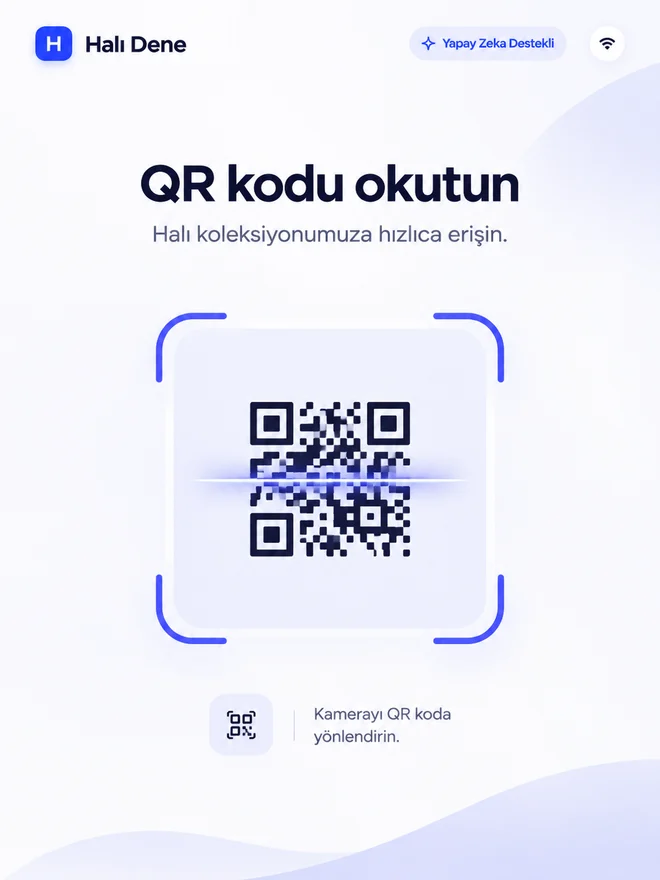
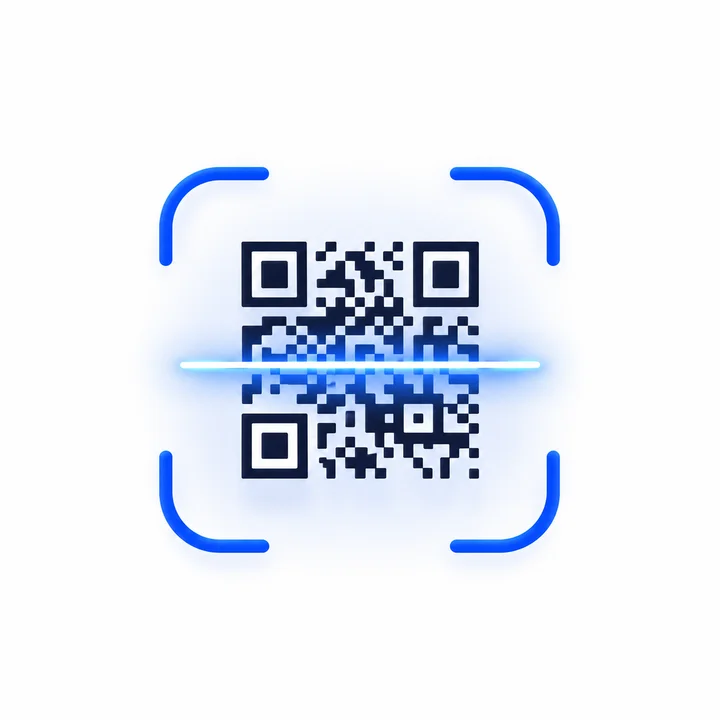
Refresh the how-it-works visuals and style the demo form

diff --git a/components/landing/web-landing.css b/components/landing/web-landing.css
@@ -121,9 +121,7 @@
 .hd-interest-field input::placeholder { color: #697990; }
 .hd-interest-field:focus-within { border-color: var(--hd-blue); box-shadow: 0 0 0 3px rgb(36 88 245 / 13%); }
 .hd-interest-field input:focus-visible { outline: none; }
-.hd-interest .hd-contact-form .hd-contact-whatsapp { justify-self: center; color: var(--hd-blue-dark); font-size: .875rem; font-weight: 680; }
-.hd-contact-whatsapp:hover { text-decoration: underline; }
-.hd-form-error { flex-basis: 100%; }
+.hd-interest .hd-form-error { flex-basis: 100%; }
 .hd-interest .hd-button { flex-shrink: 0; min-height: 48px; padding-inline: clamp(16px, 1.7vw, 24px); border-radius: 8px; font-size: .875rem; font-weight: 800; box-shadow: 0 2px 5px rgb(15 23 42 / 9%); }
 
 .hd-hero-benefits {
@@ -150,8 +148,8 @@
 .hd-section-heading > p { max-width: 640px; margin: 10px auto 0; color: var(--hd-muted); font-size: 1.06rem; }
 .hd-step-grid { display: grid; grid-template-columns: repeat(4, minmax(0, 1fr)); gap: clamp(12px, 1.65vw, 22px); margin: 29px 0 0; padding: 0; list-style: none; }
 .hd-step-grid li { min-width: 0; padding: 11px; border: 1px solid var(--hd-line); border-radius: 15px; background: #fff; box-shadow: var(--hd-card-shadow); }
-.hd-step-visual { width: 100%; aspect-ratio: 5 / 6; overflow: hidden; border: 1px solid var(--hd-line); border-radius: 9px; background: var(--hd-surface); }
-.hd-step-visual img { width: 100%; height: 100%; object-fit: cover; object-position: center bottom; }
+.hd-step-visual { width: 100%; aspect-ratio: 1; overflow: hidden; border-radius: 10px; background: #fff; }
+.hd-step-visual img { width: 100%; height: 100%; object-fit: contain; }
 .hd-step-copy { display: flex; gap: 8px; align-items: flex-start; padding: 12px 2px 5px; }
 .hd-step-number { display: grid; width: 25px; height: 25px; flex: 0 0 25px; place-items: center; border-radius: 50%; color: #fff; background: var(--hd-blue); font-size: .78rem; font-weight: 730; }
 .hd-step-copy h3 { margin-top: 3px; font-size: .96rem; letter-spacing: -.015em; line-height: 1.16; }
@@ -204,23 +202,79 @@
 .hd-footer p { margin-top: 7px; color: var(--hd-muted); font-size: .875rem; }
 .hd-copyright { margin-top: 21px; padding-top: 14px; border-top: 1px solid var(--hd-line); color: var(--hd-muted); font-size: .8125rem; }
 
-.hd-demo-dialog { width: min(500px, calc(100% - 28px)); max-height: calc(100dvh - 28px); overflow: auto; padding: 23px; border: 1px solid var(--hd-line); border-radius: 17px; color: var(--hd-ink); background: #fff; box-shadow: 0 18px 72px rgb(15 23 42 / 24%); }
-.hd-demo-dialog::backdrop { background: rgb(15 23 42 / 49%); }
-.hd-dialog-heading { display: flex; align-items: flex-start; justify-content: space-between; gap: 12px; }
-.hd-dialog-heading h2, .hd-contact-panel h1 { font-size: clamp(1.6rem, 4vw, 2rem); line-height: 1.12; letter-spacing: -.04em; }
-.hd-dialog-heading p, .hd-contact-panel > p { margin-top: 8px; color: var(--hd-muted); }
-.hd-landing .hd-dialog-close { display: grid; width: 39px; height: 39px; flex: 0 0 39px; place-items: center; padding: 0; border: 1px solid var(--hd-line); border-radius: 8px; color: var(--hd-ink); background: #fff; font-size: 1.3rem; }
-.hd-dialog-close:hover { background: var(--hd-surface); }
-.hd-contact-form { display: grid; gap: 13px; margin-top: 18px; }
-.hd-contact-form label { display: grid; gap: 5px; min-width: 0; color: var(--hd-ink); font-size: .88rem; font-weight: 700; }
-.hd-contact-fields { display: grid; grid-template-columns: 1fr 1fr; gap: 10px; }
-.hd-contact-form .hd-input { width: 100%; min-height: 44px; padding: 8px 10px; border: 1px solid #dbe4f0; border-radius: 8px; color: var(--hd-ink); background: #fff; font-size: 1rem; font-weight: 400; }
-.hd-contact-form .hd-input:focus-visible { outline-offset: 1px; }
+.hd-demo-dialog, .hd-contact-panel {
+  padding: clamp(21px, 5vw, 34px);
+  border: 1px solid #dce6f7;
+  border-radius: 24px;
+  color: var(--hd-ink);
+  background: radial-gradient(ellipse at 0 0, #f1f6ff, transparent 62%), #fff;
+}
+.hd-demo-dialog {
+  width: min(520px, calc(100% - 28px));
+  max-height: calc(100dvh - 28px);
+  overflow: auto;
+  box-shadow: 0 22px 78px rgb(15 23 42 / 24%);
+}
+.hd-demo-dialog::backdrop { background: rgb(15 23 42 / 48%); backdrop-filter: blur(3px); }
+.hd-demo-intro { display: grid; justify-items: start; gap: 9px; }
+.hd-demo-dialog .hd-demo-intro { padding-right: 34px; }
+.hd-demo-intro h1, .hd-demo-intro h2 { font-size: clamp(1.65rem, 4vw, 2.15rem); line-height: 1.12; letter-spacing: -.045em; }
+.hd-demo-intro p { color: var(--hd-muted); font-size: .94rem; }
+.hd-demo-icon {
+  display: grid;
+  width: 47px;
+  height: 47px;
+  place-items: center;
+  margin-bottom: 4px;
+  border: 1px solid #d9e4ff;
+  border-radius: 14px;
+  color: var(--hd-blue);
+  background: #e7efff;
+}
+.hd-landing .hd-dialog-close {
+  position: absolute;
+  top: 17px;
+  right: 17px;
+  display: grid;
+  width: 36px;
+  height: 36px;
+  place-items: center;
+  padding: 0;
+  border: 1px solid var(--hd-line);
+  border-radius: 50%;
+  color: var(--hd-muted);
+  background: #fff;
+  font-size: 1.25rem;
+  line-height: 1;
+}
+.hd-dialog-close:hover { background: var(--hd-surface); color: var(--hd-ink); }
+.hd-contact-form { display: grid; gap: 15px; margin-top: 23px; }
+.hd-contact-form label { display: grid; gap: 6px; min-width: 0; color: var(--hd-ink); font-size: .875rem; font-weight: 680; }
+.hd-contact-fields { display: grid; grid-template-columns: minmax(0, 1fr) minmax(0, 1fr); gap: 12px; }
+.hd-contact-form .hd-input {
+  width: 100%;
+  min-height: 47px;
+  padding: 10px 12px;
+  border: 1px solid #dbe4f0;
+  border-radius: 10px;
+  color: var(--hd-ink);
+  background: #fff;
+  font-size: 1rem;
+  font-weight: 400;
+}
+.hd-contact-form .hd-input::placeholder { color: #64748b; opacity: 1; }
+.hd-contact-form .hd-input:focus { border-color: var(--hd-blue); box-shadow: 0 0 0 3px rgb(36 88 245 / 12%); outline: none; }
+.hd-demo-actions { display: grid; grid-template-columns: minmax(0, 1fr) auto; gap: 10px; margin-top: 5px; }
+.hd-demo-actions .hd-button { min-height: 48px; gap: 8px; border-radius: 10px; }
+.hd-demo-actions .hd-button-primary { box-shadow: 0 5px 13px rgb(36 88 245 / 17%); }
+.hd-landing .hd-contact-whatsapp { color: #14603e; border-color: #cfe8da; background: #f0faf4; white-space: nowrap; }
+.hd-landing .hd-contact-whatsapp:hover { background: #e0f4e8; }
 .hd-form-error { color: #ae2424; font-size: .875rem; }
-.hd-contact-success { margin-top: 19px; padding: 15px; border-radius: 8px; background: var(--hd-tint); }
+.hd-contact-form .hd-form-error { padding: 9px 11px; border-radius: 8px; background: #fff2f2; }
+.hd-contact-success { margin-top: 21px; padding: 16px; border: 1px solid #d9e4ff; border-radius: 12px; background: var(--hd-tint); }
 .hd-contact-success p { color: var(--hd-muted); }
-.hd-contact-page { padding: 27px clamp(17px, 5vw, 65px); background: var(--hd-surface); }
-.hd-contact-panel { width: min(100%, 560px); margin: 25px auto; padding: clamp(17px, 4vw, 34px); border: 1px solid var(--hd-line); border-radius: 17px; background: #fff; box-shadow: var(--hd-card-shadow); }
+.hd-contact-page { padding-block: 23px 42px; background: radial-gradient(ellipse at top, #e8f0ff, #f8faff 50%, #fff); }
+.hd-contact-panel { width: min(540px, calc(100% - 32px)); margin: clamp(29px, 6vh, 65px) auto 0; box-shadow: 0 18px 56px rgb(34 64 118 / 9%); }
 
 @media (max-width: 900px) {
   .hd-hero { gap: 24px; }
@@ -264,6 +318,9 @@
   .hd-step-grid li { padding: 8px; }
   .hd-step-copy { gap: 6px; }
   .hd-step-number { width: 21px; height: 21px; flex-basis: 21px; }
+}
+@media (max-width: 370px) {
+  .hd-demo-actions { grid-template-columns: minmax(0, 1fr); }
 }
 @media (prefers-reduced-motion: reduce) {
   .hd-landing { scroll-behavior: auto; }

diff --git a/components/landing/ContactForm.web.tsx b/components/landing/ContactForm.web.tsx
@@ -17,6 +17,22 @@ interface ContactFormProps {
   initialEmail?: string;
 }
 
+export function DemoFormHeading({ id, as: Heading = 'h2' }: { id: string; as?: 'h1' | 'h2' }) {
+  return (
+    <header className="hd-demo-intro">
+      <span className="hd-demo-icon" aria-hidden="true">
+        <svg width="23" height="23" viewBox="0 0 24 24" fill="none" stroke="currentColor"
+          strokeWidth="1.7" strokeLinecap="round" strokeLinejoin="round">
+          <rect x="3" y="5" width="18" height="16" rx="3" />
+          <path d="M16 3v4M8 3v4M3 10h18m-12 5 2 2 4-4" />
+        </svg>
+      </span>
+      <Heading id={id}>Demo Talep Et</Heading>
+      <p>Mağazanız için bir demo görüşmesi planlayalım.</p>
+    </header>
+  );
+}
+
 export function demoEmailError(field: HTMLInputElement) {
   if (!field.value.trim()) return 'Lütfen e-posta adresinizi girin.';
   if (field.validity.typeMismatch) return 'Lütfen geçerli bir e-posta adresi girin.';
@@ -94,23 +110,34 @@ export default function ContactForm({ initialEmail = '' }: ContactFormProps) {
       <input type="text" name="_honey" hidden tabIndex={-1} autoComplete="off" />
       <div className="hd-contact-fields">
         <label htmlFor={`${fieldId}-name`}>Ad
-          <input className="hd-input" id={`${fieldId}-name`} name="name" autoComplete="given-name" maxLength={80} required />
+          <input className="hd-input" id={`${fieldId}-name`} name="name" autoComplete="given-name" placeholder="Adınız" maxLength={80} required />
         </label>
         <label htmlFor={`${fieldId}-surname`}>Soyad
-          <input className="hd-input" id={`${fieldId}-surname`} name="surname" autoComplete="family-name" maxLength={80} required />
+          <input className="hd-input" id={`${fieldId}-surname`} name="surname" autoComplete="family-name" placeholder="Soyadınız" maxLength={80} required />
         </label>
       </div>
       <label htmlFor={`${fieldId}-email`}>E-posta
-        <input className="hd-input" id={`${fieldId}-email`} name="email" type="email" autoComplete="email" defaultValue={initialEmail} maxLength={254} required />
+        <input className="hd-input" id={`${fieldId}-email`} name="email" type="email" autoComplete="email" placeholder="ornek@magaza.com" defaultValue={initialEmail} maxLength={254} required />
       </label>
       <label htmlFor={`${fieldId}-phone`}>Telefon
-        <input className="hd-input" id={`${fieldId}-phone`} name="phone" type="tel" autoComplete="tel" maxLength={35} required />
+        <input className="hd-input" id={`${fieldId}-phone`} name="phone" type="tel" autoComplete="tel" placeholder="05XX XXX XX XX" maxLength={35} required />
       </label>
       {error && <p className="hd-form-error" role="alert">{error}</p>}
-      <button type="submit" className="hd-button hd-button-primary" disabled={status === 'sending'}>
-        {status === 'sending' ? 'Gönderiliyor…' : 'Talebi Gönder'}
-      </button>
-      <a className="hd-contact-whatsapp" href={DEMO_WHATSAPP_URL}>WhatsApp’tan demo talep et</a>
+      <div className="hd-demo-actions">
+        <button type="submit" className="hd-button hd-button-primary" disabled={status === 'sending'}>
+          {status === 'sending' ? 'Gönderiliyor…' : 'Talebi Gönder'}
+          <svg aria-hidden="true" width="17" height="17" viewBox="0 0 24 24" fill="none"
+            stroke="currentColor" strokeWidth="1.8" strokeLinecap="round" strokeLinejoin="round">
+            <path d="M4 12h15m-6-6 6 6-6 6" />
+          </svg>
+        </button>
+        <a className="hd-button hd-contact-whatsapp" href={DEMO_WHATSAPP_URL}>
+          <svg aria-hidden="true" width="18" height="18" viewBox="0 0 24 24" fill="currentColor">
+            <path d="M17.472 14.382c-.297-.149-1.758-.867-2.03-.967-.273-.099-.471-.148-.67.15-.197.297-.767.966-.94 1.164-.173.199-.347.223-.644.075-.297-.15-1.255-.463-2.39-1.475-.883-.788-1.48-1.761-1.653-2.059-.173-.297-.018-.458.13-.606.134-.133.298-.347.446-.52.149-.174.198-.298.298-.497.099-.198.05-.371-.025-.52-.075-.149-.669-1.612-.916-2.207-.242-.579-.487-.5-.669-.51-.173-.008-.371-.01-.57-.01-.198 0-.52.074-.792.372-.272.297-1.04 1.016-1.04 2.479 0 1.462 1.065 2.875 1.213 3.074.149.198 2.096 3.2 5.077 4.487.709.306 1.262.489 1.694.625.712.227 1.36.195 1.871.118.571-.085 1.758-.719 2.006-1.413.248-.694.248-1.289.173-1.413-.074-.124-.272-.198-.57-.347m-5.421 7.403h-.004a9.87 9.87 0 01-5.031-1.378l-.361-.214-3.741.982.998-3.648-.235-.374a9.86 9.86 0 01-1.51-5.26c.001-5.45 4.436-9.884 9.888-9.884 2.64 0 5.122 1.03 6.988 2.898a9.825 9.825 0 012.893 6.994c-.003 5.45-4.437 9.884-9.885 9.884m8.413-18.297A11.815 11.815 0 0012.05 0C5.495 0 .16 5.335.157 11.892c0 2.096.547 4.142 1.588 5.945L.057 24l6.305-1.654a11.882 11.882 0 005.683 1.448h.005c6.554 0 11.89-5.335 11.893-11.893a11.821 11.821 0 00-3.48-8.413Z" />
+          </svg>
+          WhatsApp
+        </a>
+      </div>
     </form>
   );
 }

diff --git a/screens/LandingScreen.web.tsx b/screens/LandingScreen.web.tsx
@@ -1,5 +1,5 @@
 import React, { useEffect, useId, useRef, useState, type CSSProperties, type FormEvent, type MouseEvent, type PointerEvent } from 'react';
-import ContactForm, { DEMO_WHATSAPP_URL, demoEmailError } from '../components/landing/ContactForm.web';
+import ContactForm, { DEMO_WHATSAPP_URL, DemoFormHeading, demoEmailError } from '../components/landing/ContactForm.web';
 import CATALOG from '../data/catalog-stats.json';
 
 const CARPET_COUNT = `${Math.floor(CATALOG.totalCarpets / 100) * 100}+`;
@@ -230,13 +230,13 @@ function HowItWorks() {
       title: 'QR kodu okutun',
       text: 'Müşteriniz, mağazadaki QR kodu telefonuyla okutarak halı deneme akışını başlatır.',
       image: 'qr',
-      alt: 'Halı denemeyi başlatan QR kod ekranı',
+      alt: 'Mağazada QR kod okutma adımının temsili görseli',
     },
     {
       title: 'Oda fotoğrafını yükleyin',
       text: 'Halının deneneceği odanın fotoğrafını ekleyin.',
       image: 'room-upload',
-      alt: 'Oda fotoğrafı yüklemek için dosya seçme ekranı',
+      alt: 'Yükleme simgesiyle halısız bir oda fotoğrafı',
     },
     {
       title: 'Halıyı seçin',
@@ -263,7 +263,7 @@ function HowItWorks() {
           {steps.map(({ title, text, image, alt }, index) => (
             <li key={title}>
               <div className="hd-step-visual">
-                <img src={`/landing/steps/${image}.webp`} alt={alt} width={660} height={880} loading="lazy" decoding="async" />
+                <img src={`/landing/steps/${image}.webp`} alt={alt} width={720} height={720} loading="lazy" decoding="async" />
               </div>
               <div className="hd-step-copy">
                 <span className="hd-step-number" aria-hidden="true">{index + 1}</span>
@@ -415,10 +415,8 @@ export default function LandingScreen() {
       </footer>
 
       <dialog className="hd-demo-dialog" ref={dialog} aria-labelledby="hd-demo-title" onClose={() => setRequestEmail(null)}>
-        <div className="hd-dialog-heading">
-          <div><h2 id="hd-demo-title">Demo Talep Et</h2><p>Bilgilerinizi paylaşın, mağazanız için bir görüşme planlayalım.</p></div>
-          <button className="hd-dialog-close" type="button" aria-label="Formu kapat" onClick={() => dialog.current?.close()}>×</button>
-        </div>
+        <DemoFormHeading id="hd-demo-title" />
+        <button className="hd-dialog-close" type="button" aria-label="Formu kapat" onClick={() => dialog.current?.close()}>×</button>
         {requestEmail !== null && <ContactForm initialEmail={requestEmail} />}
       </dialog>
     </div>

diff --git a/screens/ContactScreen.web.tsx b/screens/ContactScreen.web.tsx
@@ -1,5 +1,5 @@
 import React from 'react';
-import ContactForm from '../components/landing/ContactForm.web';
+import ContactForm, { DemoFormHeading } from '../components/landing/ContactForm.web';
 
 export const contactMetadata = {
   title: 'İletişim | Halı Dene',
@@ -9,12 +9,13 @@ export const contactMetadata = {
 export default function ContactScreen() {
   return (
     <main className="hd-landing hd-contact-page">
-      <a className="hd-wordmark" href="/" aria-label="Halı Dene ana sayfa">
-        <span className="hd-brand-mark" aria-hidden="true">H</span>Halı Dene
-      </a>
+      <header className="hd-container">
+        <a className="hd-wordmark" href="/" aria-label="Halı Dene ana sayfa">
+          <span className="hd-brand-mark" aria-hidden="true">H</span>Halı Dene
+        </a>
+      </header>
       <section className="hd-contact-panel" aria-labelledby="contact-title">
-        <h1 id="contact-title">Demo Talep Et</h1>
-        <p>Bilgilerinizi paylaşın, mağazanız için bir demo görüşmesi planlayalım.</p>
+        <DemoFormHeading id="contact-title" as="h1" />
         <ContactForm />
       </section>
     </main>
